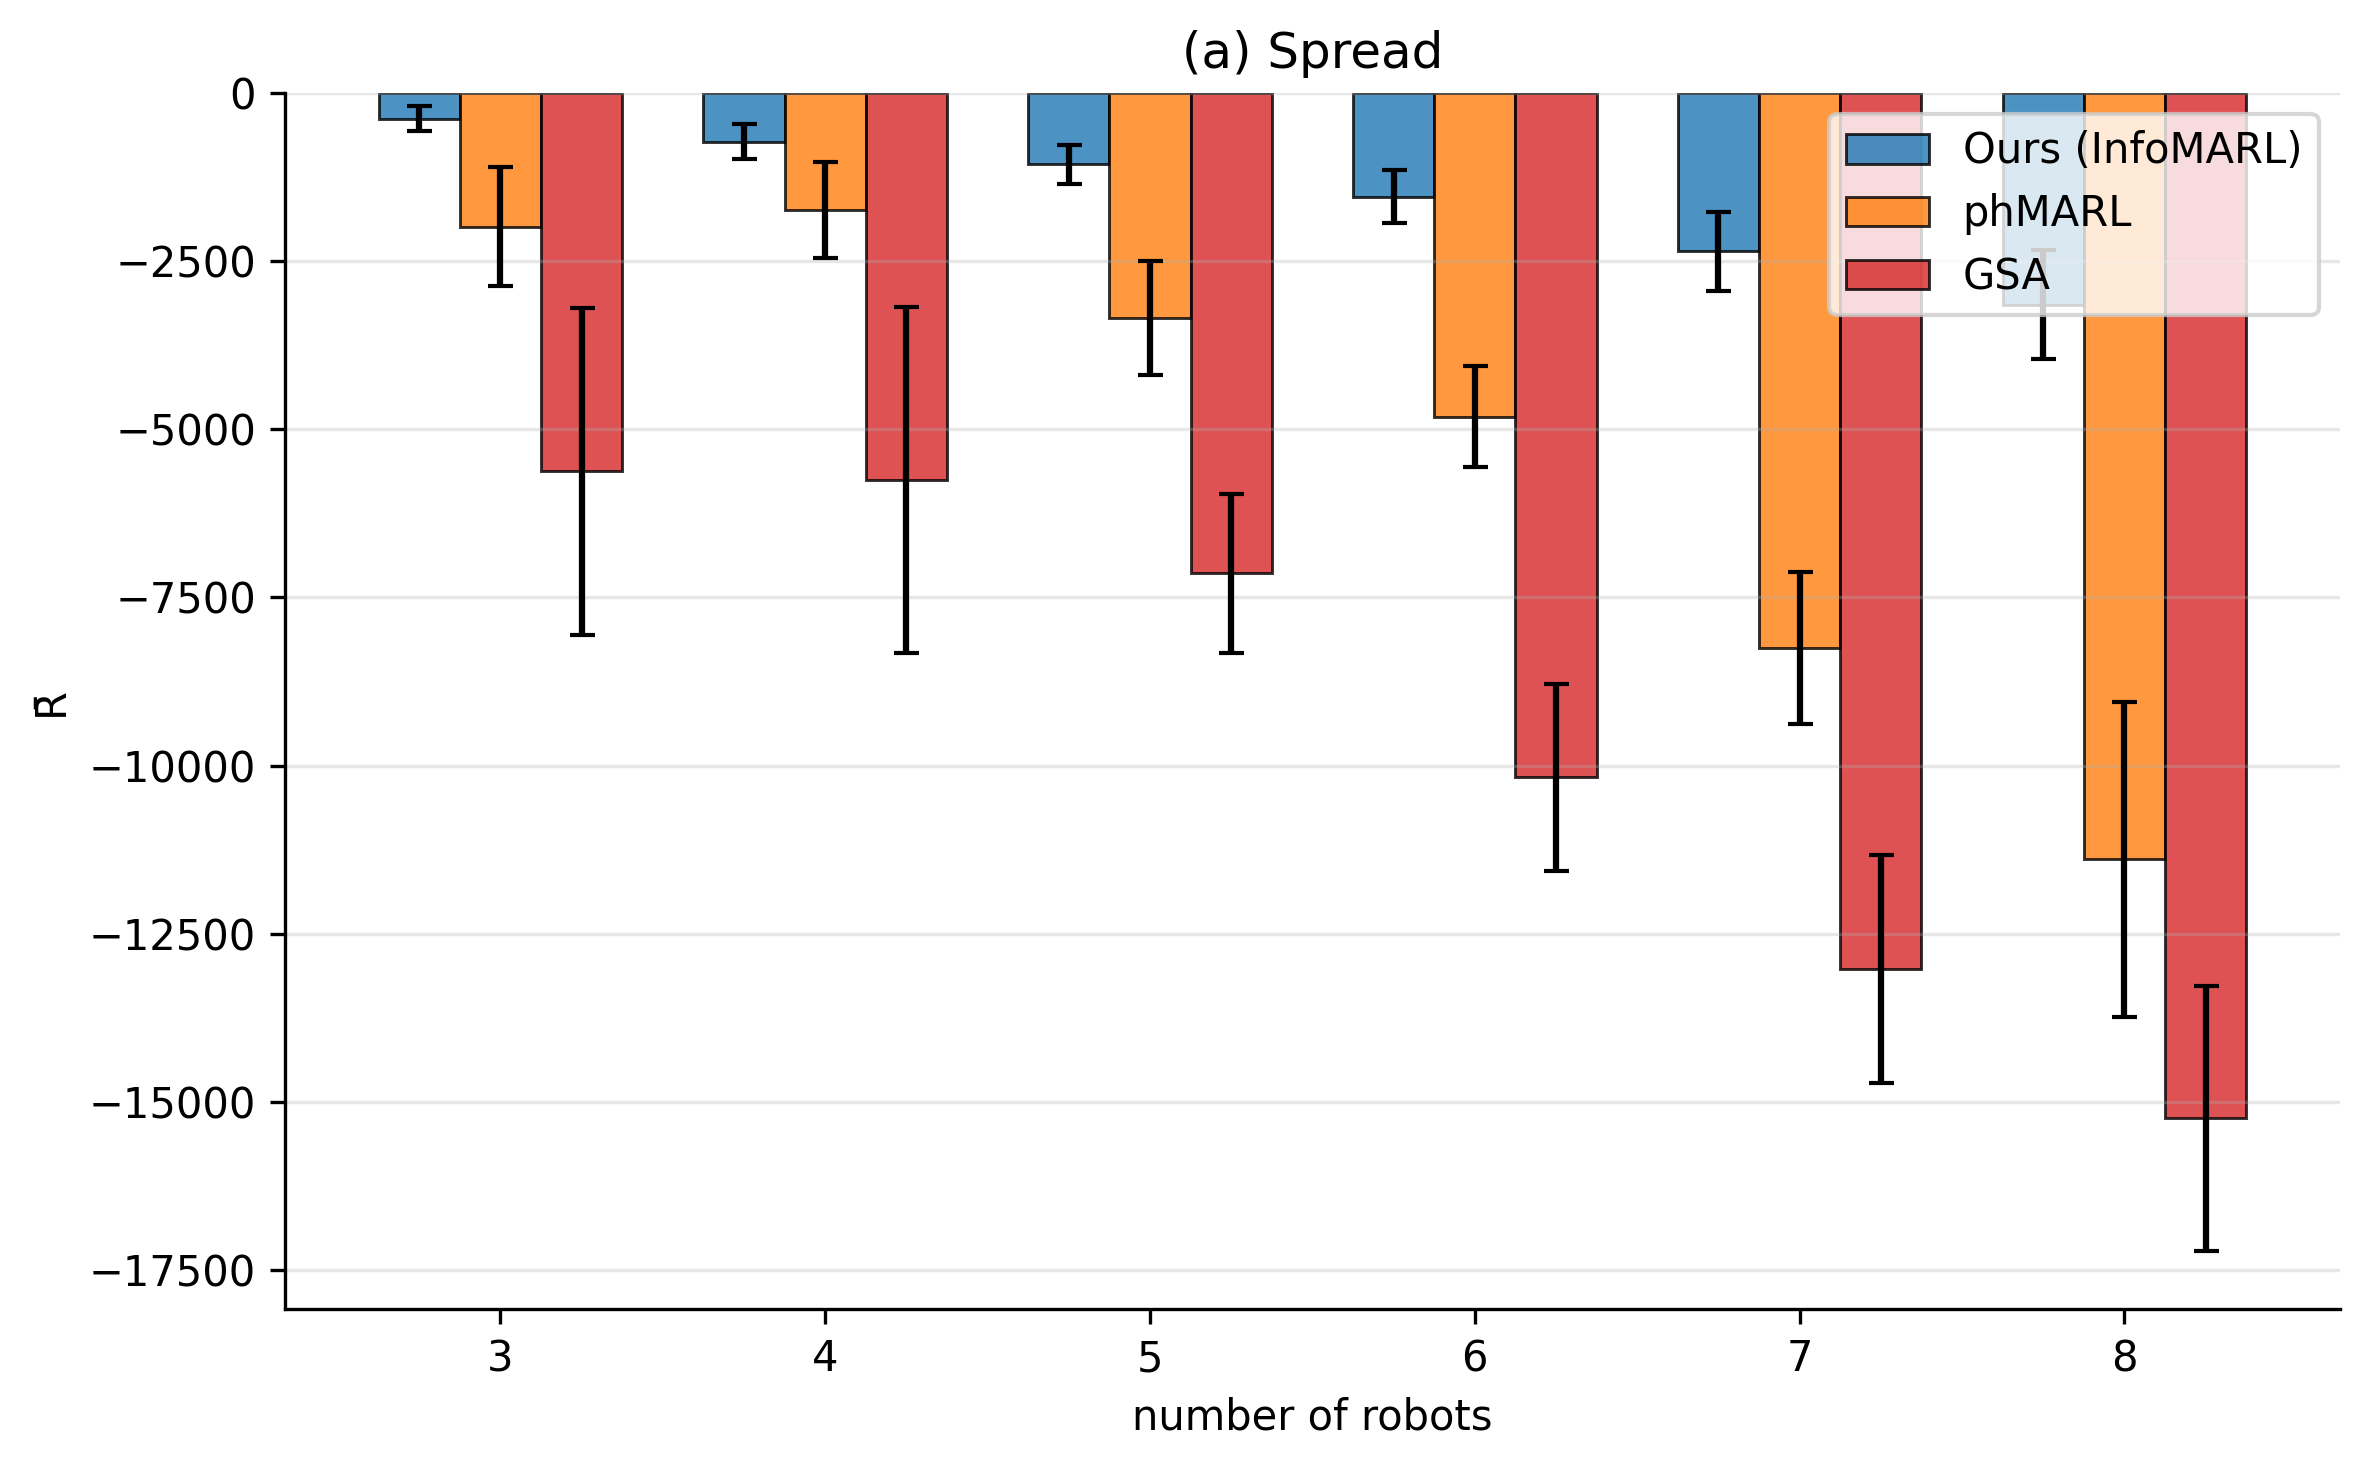
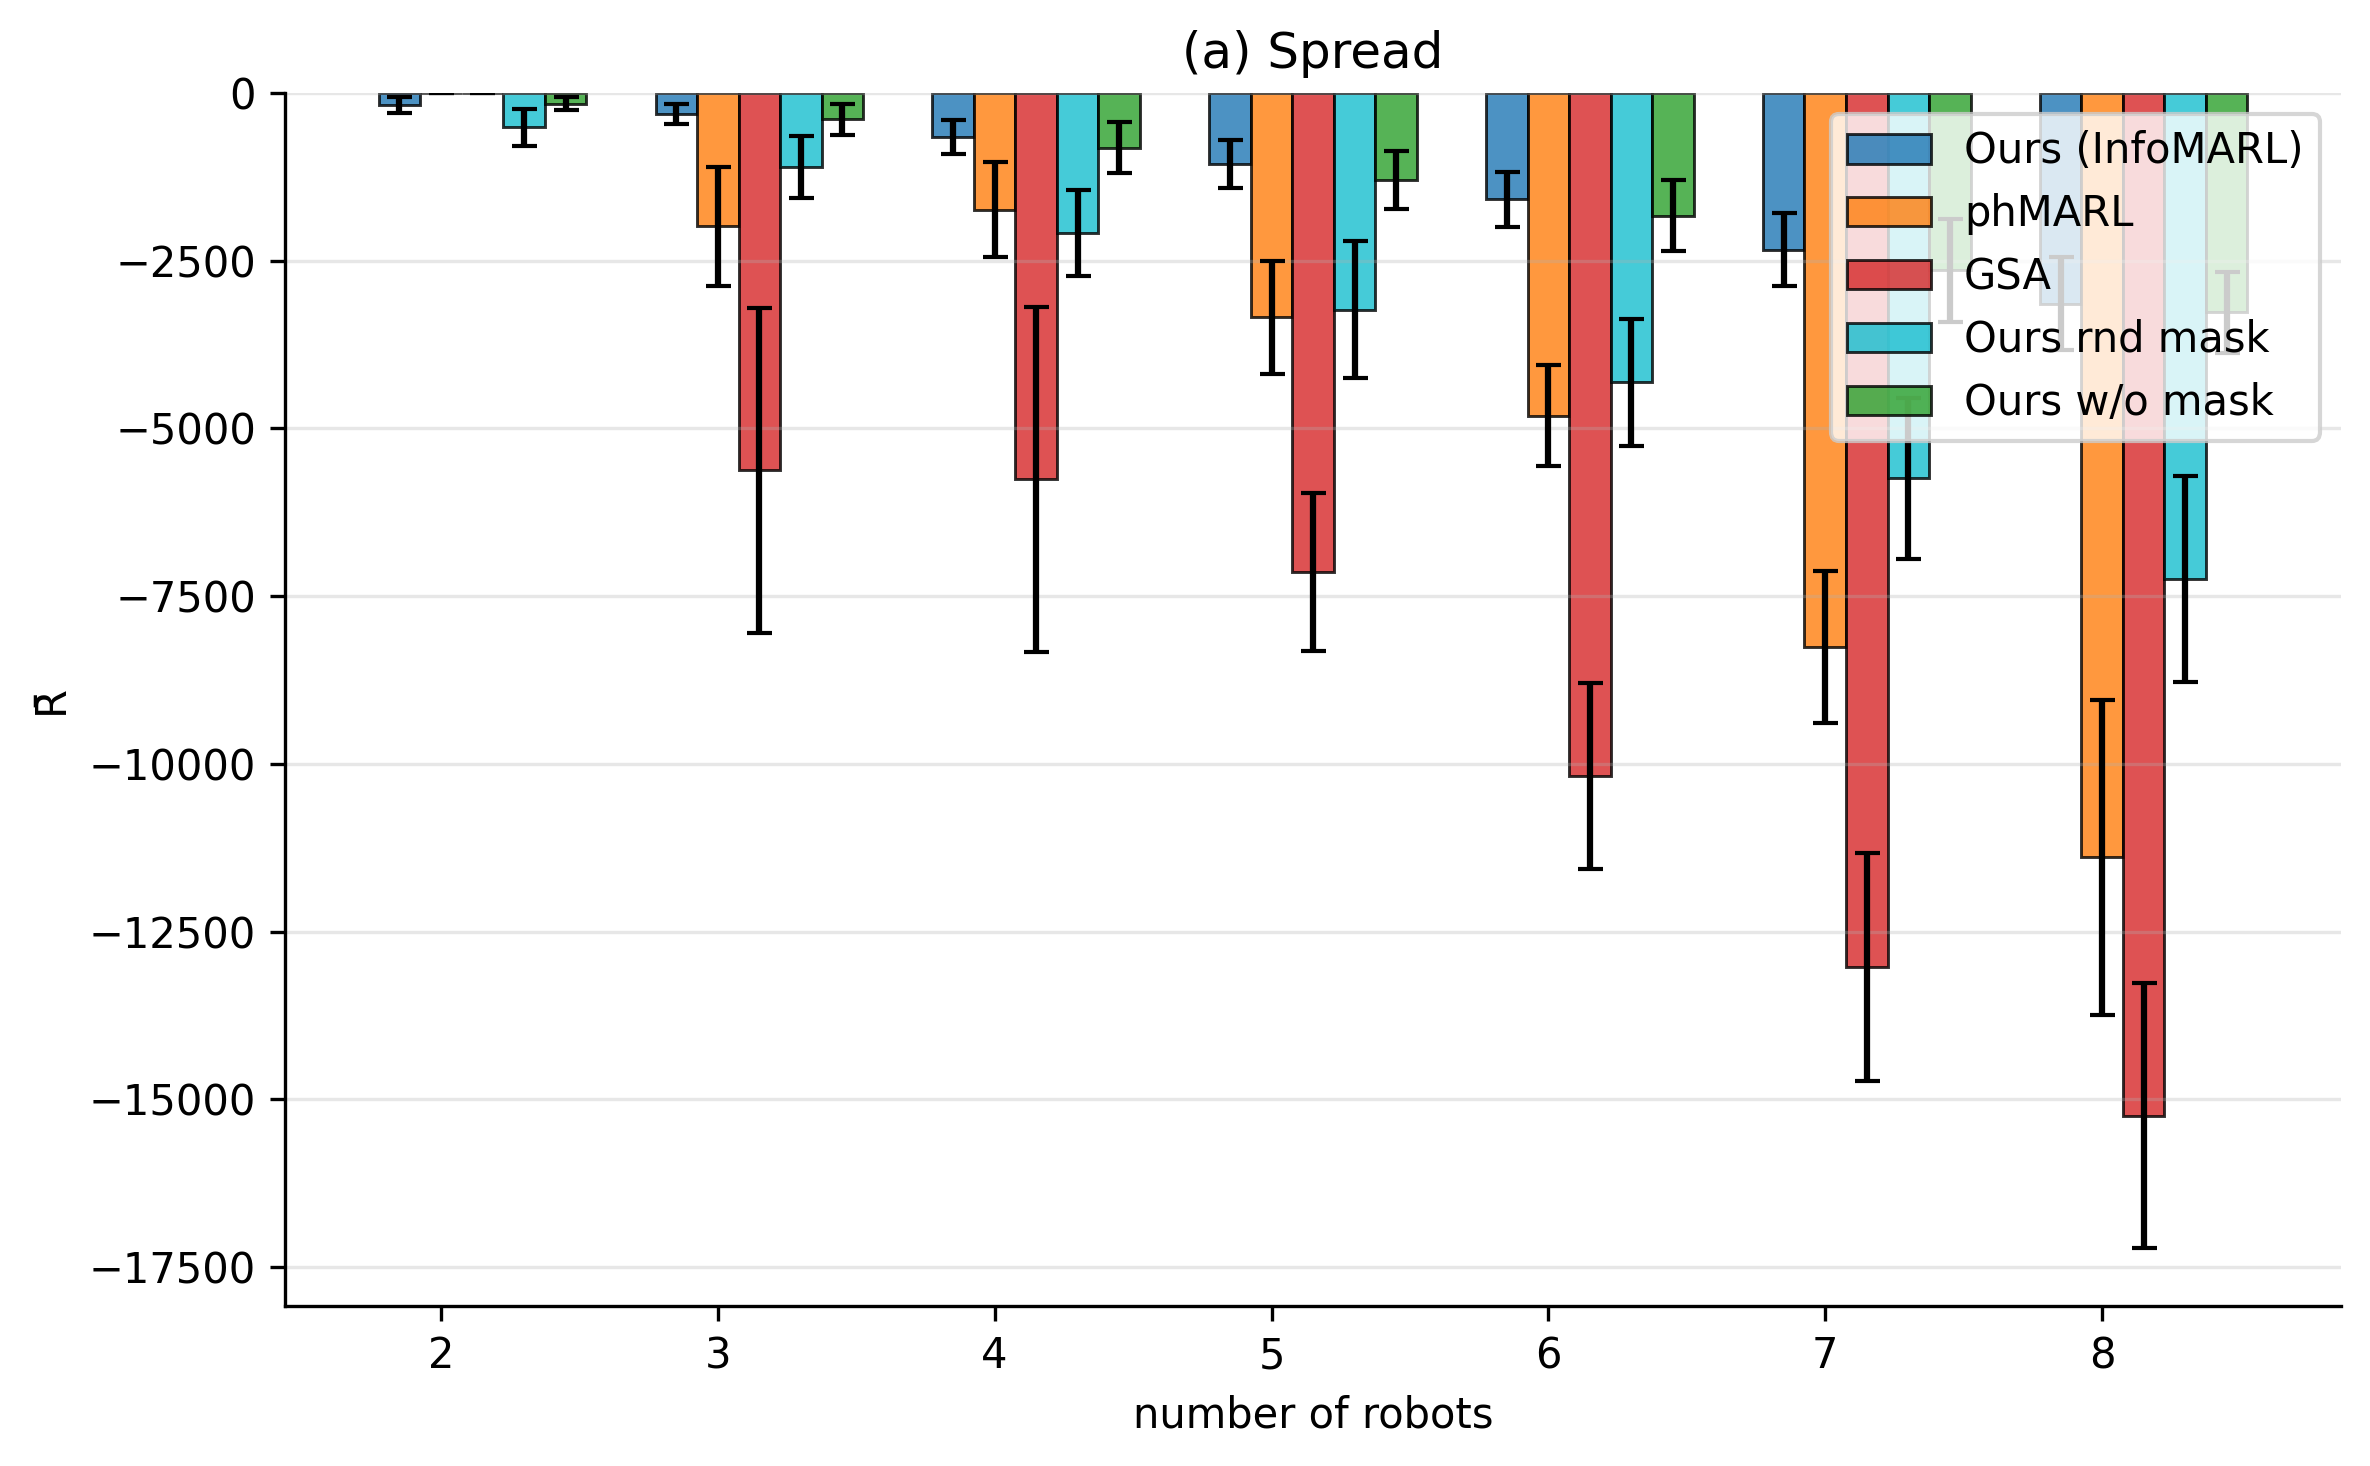
Updated values

diff --git a/sb3/generate_graph.py b/sb3/generate_graph.py
@@ -246,7 +246,7 @@ def extract_file_info(filename: str) -> Tuple[str, str, int]:
     parts = basename.split('_')
     
     if len(parts) >= 3:
-        return parts[0], parts[1], int(parts[2])
+        return '_'.join(parts[:-2]), parts[-2], int(parts[-1])
     return 'unknown', 'unknown', 0
 
 def process_all_files_and_visualize(file_pattern: str, max_chunks_per_file: int = None):
@@ -320,12 +320,16 @@ def create_paper_style_visualization(results_data):
     # Method name mapping for display
     method_display_names = {
         'infomarl': 'Ours (InfoMARL)',
+        'infomarl_rnd': 'Ours rnd mask',
+        'infomarl_nomask': 'Ours w/o mask',
         'phmarl': 'phMARL', 
         'gsa': 'GSA'
     }
     
     colors = {
         'Ours (InfoMARL)': '#1f77b4',   # Blue
+        'Ours rnd mask' : '#17becf',    # Cyan
+        'Ours w/o mask': '#2ca02c',     # Green
         'phMARL': '#ff7f0e',            # Orange  
         'GSA': '#d62728'                # Red
     }
@@ -341,8 +345,8 @@ def create_paper_style_visualization(results_data):
     
     scenarios = sorted(all_scenarios)
     agent_counts = sorted(all_agent_counts)
-    methods = ['infomarl', 'phmarl', 'gsa']  # Use file method names
-    
+    methods = ['infomarl', 'phmarl', 'gsa', 'infomarl_rnd', 'infomarl_nomask']  # Use file method names
+
     print(f"Visualizing scenarios: {scenarios}")
     print(f"Agent counts: {agent_counts}")
     print(f"Available methods: {list(results_data.keys())}")
@@ -358,7 +362,7 @@ def create_paper_style_visualization(results_data):
     for idx, scenario in enumerate(scenarios):
         ax = axes[idx]
         
-        bar_width = 0.25
+        bar_width = 0.15
         x = np.array(range(len(agent_counts)))
         
         for i, method in enumerate(methods):
@@ -423,7 +427,7 @@ def main():
     
     # Process all files
     process_all_files_and_visualize(
-        file_pattern="/Users/jmalegaonkar/Desktop/InfoMARL-1/eval_data/*.dat",
+        file_pattern="/home/eval_data/*_collection*.dat",
         max_chunks_per_file=400  # Adjust as needed
     )
 
